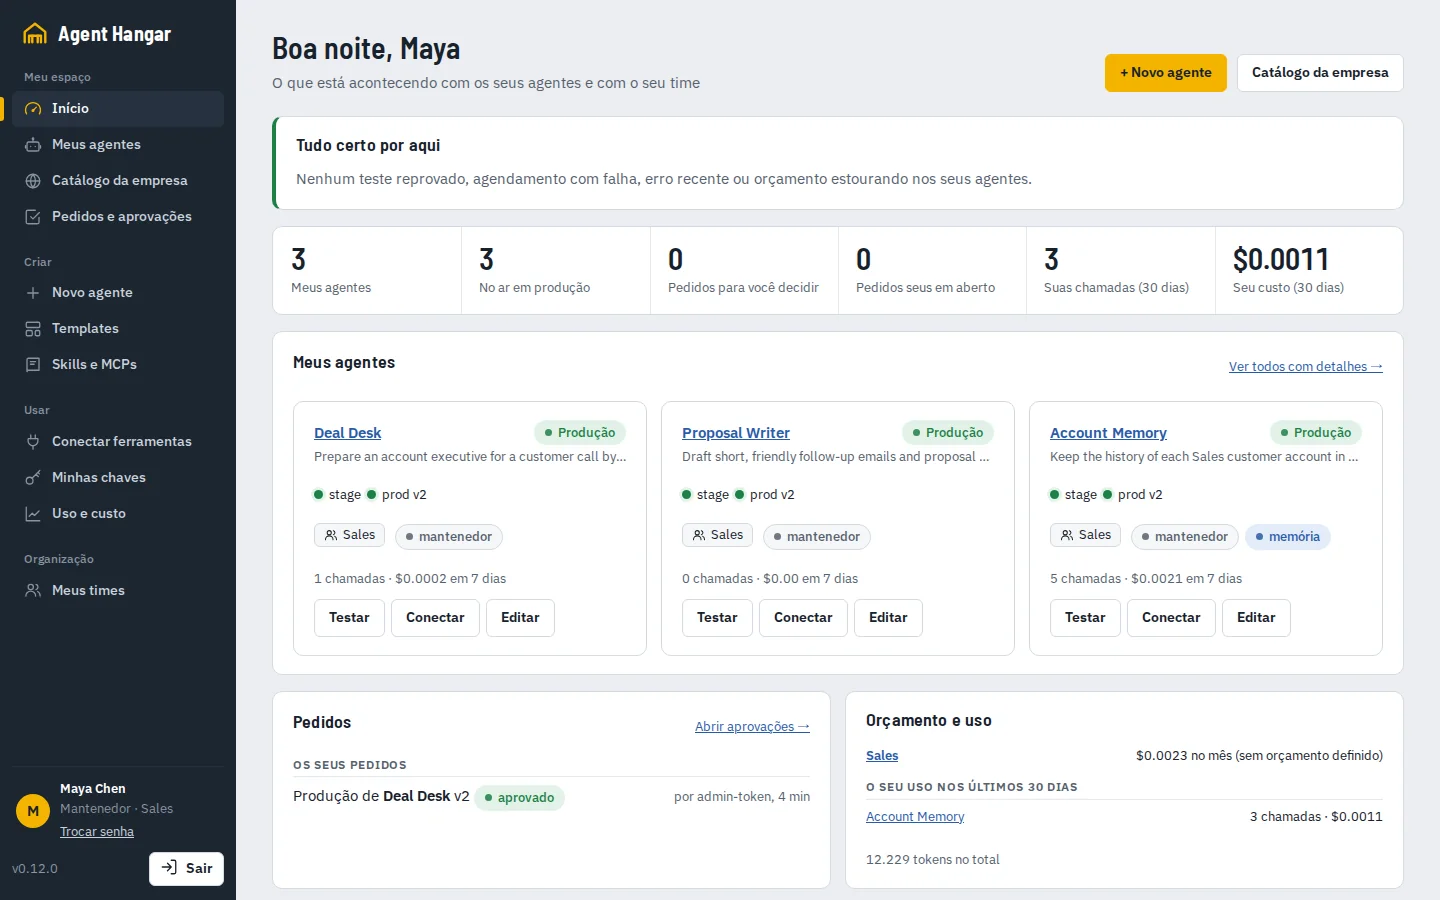
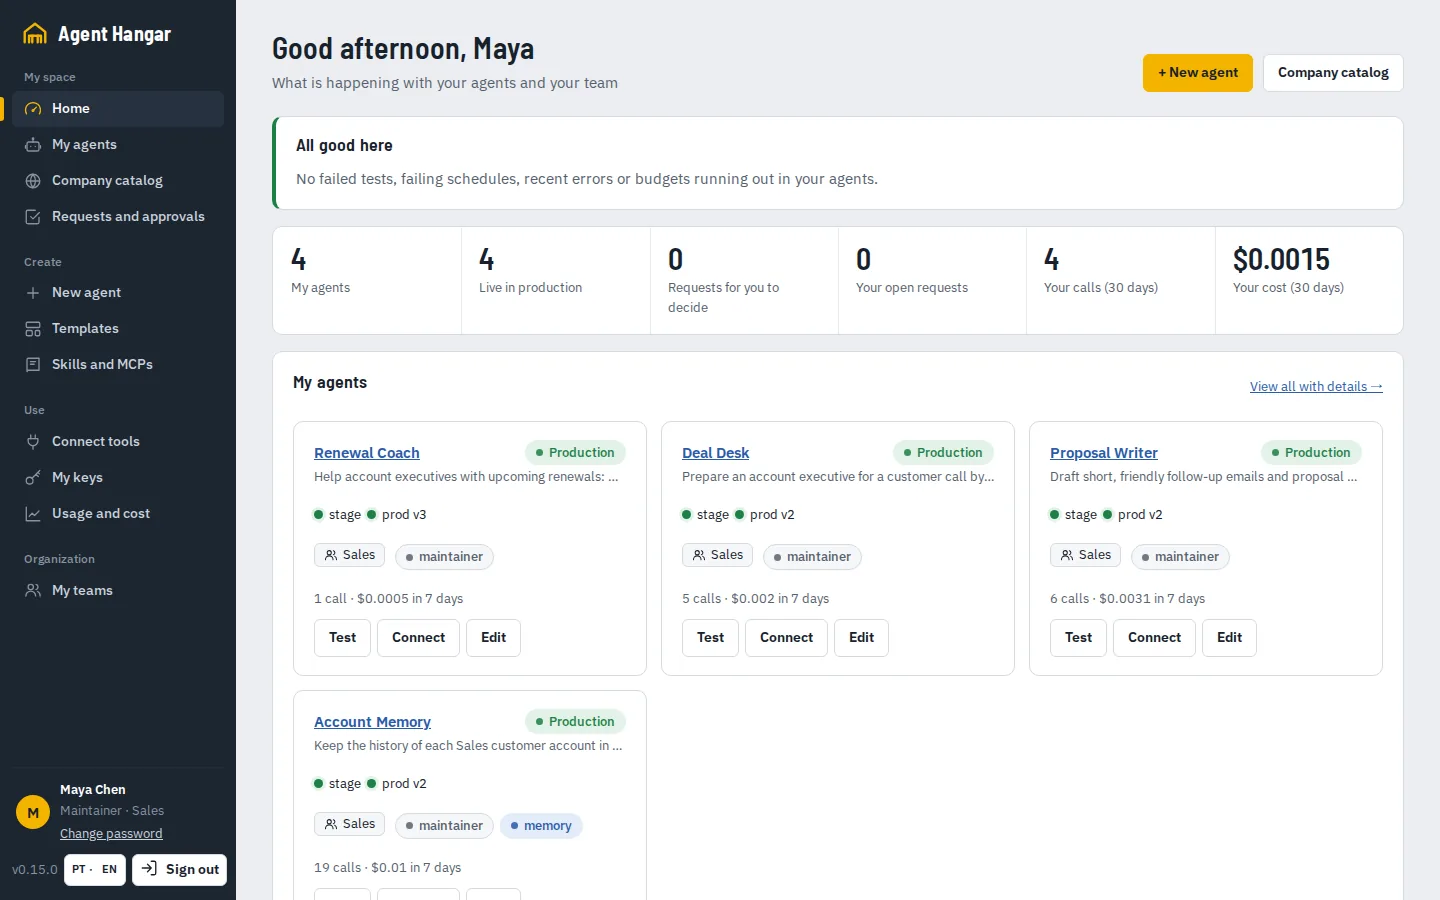
Demo for v0.15: portal in English, the Guide and "reuse before you build"
- Interactive demo (docs/demo): screens taken again on v0.15.0 with the portal
  in English; new steps for "reuse before you build" and the agent Guide (Deal
  Desk's guide written over MCP as a build step), replacing the removed
  Multi-agent tab; hotspots and texts updated.
- Composer: the plan's reasons and recommendation follow the request's language,
  like the gap questions already did.
- Portal (EN): translations for the schedule node, usage and connect columns,
  memory scope, test summaries and the connection notice.
- capture.py signs in with the demo account and forces the English portal;
  new "reuse" group. README status covers v0.14 and v0.15.

diff --git a/docs/demo/index.html b/docs/demo/index.html
@@ -101,60 +101,63 @@
   </aside>
 </main>
 <script>
-// Real screens from a local install (v0.12.0). The agents, tests, memory, answers and costs are real; the people and
-// customers are fictional. The portal's interface is in Portuguese; the data and this tour are in English.
+// Real screens from a local install (v0.15.0, portal in English). The agents, tests, memory, answers and costs are
+// real; the people and customers are fictional.
 const STEPS = [
   { cover: "intro" },
   { img: "01-claude", x: 74, y: 59, tip: "Claude ships it",
     title: "It starts in the AI tool you already use",
-    body: `<p>Maya, from Sales, asks Claude for three agents. Claude builds them through the Hangar's <b>MCP server</b>: register, design, add tests, ship and schedule.</p>
+    body: `<p>Maya, from Sales, asks Claude for agents. Claude builds them through the Hangar's <b>MCP server</b>: register, design, add tests, write the guide, ship and schedule.</p>
       <p>The same works from ChatGPT, Cursor, VS Code, Codex or OpenCode. Nothing is locked inside one vendor.</p>`,
     note: "This screen is a visual reconstruction of Claude, built from the recorded MCP calls. Every call in it really ran." },
+  { img: "17-reuse", x: 50, y: 33, tip: "Reuse first",
+    title: "Reuse before you build",
+    body: `<p>Before building anything, the Hangar searches the company catalog for agents, skills and tools that already do part of the job, using only what Maya is allowed to see.</p>
+      <p>The new agent calls them as <b>specialists</b> or starts from a copy. The existing agents are never changed, and Claude writes only what is new.</p>` },
   { img: "03-approval", x: 85, y: 40, tip: "Pending approval",
     title: "Production needs a second pair of eyes",
-    body: `<p>All three agents passed their tests in stage, but the Sales team requires approval before production. Whoever asked can't approve their own release (<b>four-eyes</b>).</p>
+    body: `<p>The agents passed their tests in stage, but the Sales team requires approval before production. Whoever asked can't approve their own release (<b>four-eyes</b>).</p>
       <p>An admin approved it; the release then went live.</p>`,
-    note: "Portuguese UI: “Aprovações” = Approvals, “pendente” = pending." },
-  { img: "02-home", x: 37, y: 30, tip: "3 in production",
+    note: "This screen was recorded in Portuguese (“Aprovações” = Approvals). The portal has a PT · EN switch." },
+  { img: "02-home", x: 34, y: 30, tip: "4 in production",
     title: "Everyone gets a home page",
     body: `<p>Maya sees her agents, what is live, requests waiting for her, her calls and her cost, plus anything that needs attention: a failed test, a failing schedule, a budget running out.</p>` },
-  { img: "14-multiagent", x: 50, y: 63, tip: "Two agents, one team",
-    title: "Agents combine into new agents",
-    body: `<p><b>Deal Desk</b> doesn't store facts or write emails itself. It is an orchestrator: it asks <b>Account Memory</b> for the facts and <b>Proposal Writer</b> for the email, over A2A.</p>
-      <p>Existing agents are reused as specialists, each keeping its own instructions, model and tests.</p>` },
-  { img: "06-tests", x: 24, y: 38, tip: "9/9 checks",
+  { img: "14-guide", x: 58, y: 72, tip: "Specialists over A2A",
+    title: "Every agent explains itself",
+    body: `<p>Each agent has a <b>Guide</b>: a flow drawn from its spec, a fact sheet with example requests taken from its passing tests, and a guide written for the people who will use it.</p>
+      <p><b>Deal Desk</b> doesn't store facts or write emails itself: it asks <b>Account Memory</b> and <b>Proposal Writer</b>, over A2A. Claude wrote this guide as a step of the build.</p>` },
+  { img: "06-tests", x: 30, y: 38, tip: "9/9 checks",
     title: "Nothing reaches production untested",
     body: `<p>Every change creates a new version that runs in stage first:</p>
       <ul><li>smoke checks of every protocol: OpenAI, A2A, ACP, MCP;</li><li>the agent's own test cases, graded by an LLM judge.</li></ul>
       <p>Here Account Memory proves it records facts and refuses to invent a customer it doesn't know.</p>` },
-  { img: "08-memory", x: 89, y: 66, tip: "Shared memory",
+  { img: "08-memory", x: 27, y: 47.5, tip: "Team memory",
     title: "The team shares one memory",
-    body: `<p>Maya told Account Memory about three customers. Each fact is stored in the <b>Sales team's</b> memory, with the date it became true, so every agent and teammate sees the same history.</p>
+    body: `<p>Maya told Account Memory about her customers. Each fact is stored in the <b>Sales team's</b> memory, with the date it became true, so every agent and teammate sees the same history.</p>
       <p>Stage reads production memory but writes apart, so tests never pollute it.</p>` },
-  { img: "07-playground", x: 87, y: 58, tip: "Real answer",
+  { img: "07-playground", x: 45, y: 58, tip: "Real answer",
     title: "Ask it anything",
     body: `<p>“Prepare me for my call with Northwind Logistics tomorrow.”</p>
       <p>Deal Desk pulled the facts from memory and wrote a call brief: the situation, the open risks (SSO is the blocker, Priya prefers Tuesdays) and the next step. A follow-up email comes after it.</p>` },
-  { img: "11-schedule", x: 55, y: 42, tip: "Ran on its own",
+  { img: "11-schedule", x: 26, y: 24, tip: "Ran on its own",
     title: "Agents work on a schedule",
     body: `<p>Every weekday at 8:00, Deal Desk sends the <b>morning pipeline brief</b>, with customers ranked by urgency and the next step for each.</p>
       <p>It flags what is missing instead of making it up. Results can also go to Slack or Teams through a webhook.</p>` },
-  { img: "15-connect-tools", x: 58, y: 43, tip: "Pick a tool",
+  { img: "15-connect-tools", x: 58, y: 47, tip: "Pick a tool",
     title: "Use it from any platform",
     body: `<p>The same agent plugs into Claude Code, Claude Desktop, Codex, OpenCode, Cursor, VS Code, Cline, Continue, LibreChat, Open WebUI, SDKs or any MCP client.</p>
-      <p>It works as a <b>tool (MCP)</b> or as a <b>model</b> in the chat picker.</p>`,
-    note: "“Como ferramenta” = as a tool, “Como modelo” = as a model." },
+      <p>It works as a <b>tool (MCP)</b> or as a <b>model</b> in the chat picker.</p>` },
   { img: "16-connect-cursor", x: 34, y: 50, tip: "Ready to paste",
     title: "One click, ready-made config",
     body: `<p>Connecting Cursor gives a config to paste, with a key just for that tool and that agent, issued in Maya's name.</p>
       <p>Revoke one tool without touching the others. Usage is tracked per tool, and keys die automatically if she loses access.</p>`,
     note: "The key was masked in this screenshot and revoked right after." },
-  { img: "10-catalog", x: 36, y: 15, tip: "Company catalog",
+  { img: "10-catalog", x: 30, y: 15.5, tip: "Company catalog",
     title: "Everyone can find every agent",
     body: `<p>The company catalog lists the agents of every team: what they do, who owns them, whether they passed their tests.</p>
-      <p>People request access in one click, and a maintainer of the owning team approves.</p>`,
+      <p>People open an agent's Guide to see what it does, then request access in one click; a maintainer of the owning team approves.</p>`,
     note: "Other teams' agents in this install have Portuguese names." },
-  { img: "12-usage", x: 78, y: 30, tip: "Per channel & protocol",
+  { img: "12-usage", x: 59, y: 31.5, tip: "Per channel & protocol",
     title: "Every call has a cost and a trail",
     body: `<p>For each call: agent, environment, channel, protocol, tokens, cost and latency. The <b>A2A</b> rows are Deal Desk calling its two specialists.</p>
       <p>Teams can have monthly budgets, and everything lands in the audit log.</p>` },
@@ -163,8 +166,8 @@ const STEPS = [
 
 const COVERS = {
   intro: { count: "Interactive demo · 2 minutes", title: "One home for every AI agent your company builds",
-    side: `<p>Follow Maya, an account executive, from a request in Claude to three agents working in production, used from any platform.</p>
-      <p>These are real screens from a local install of Agent Hangar v0.12.0. The agents, tests, memory, answers and costs are real; the people and customers are fictional.</p>`,
+    side: `<p>Follow Maya, an account executive, from a request in Claude to agents working in production, used from any platform.</p>
+      <p>These are real screens from a local install of Agent Hangar v0.15.0. The agents, tests, memory, answers and costs are real; the people and customers are fictional.</p>`,
     html: `<h2>One home for every AI agent<br>your company builds.</h2>
       <p>Build agents in Claude, ChatGPT, Cursor or VS Code. Agent Hangar tests them, runs each in its own container and makes them usable from any platform, over OpenAI-compatible, MCP, A2A and ACP.</p>
       <div class="cta"><a class="primary" href="#" data-go="1">Start the tour →</a><a href="https://github.com/valteresj2/agent-hangar">View on GitHub</a></div>` },

diff --git a/central/app/static/i18n.js b/central/app/static/i18n.js
@@ -198,7 +198,8 @@
       'remember each customer\'s history\nwrite the follow-up e-mail\napprove discounts under the sales policy',
     '); opcional': '); optional', 'ex.: Triagem de chamados': 'e.g. Ticket triage', 'Buscar na memória (ex.: plano da ACME)': 'Search the memory (e.g. ACME plan)', '(obrigatório). O valor da chave aparece uma única vez.': '(required). The key value is shown only once.',
     // ---- guia do agente
-    'Guia': 'Guide', 'Ficha': 'Fact sheet', 'Entrega': 'Delivers', 'Dono': 'Owner',
+    'Canal': 'Channel', 'Protocolo': 'Protocol', 'Modo': 'Mode', 'Arquivo:': 'File:', 'Escopo:': 'Scope:', '· grupo': '· group',
+    'Guia': 'Guide', 'Agendamento': 'Schedule', 'Ficha': 'Fact sheet', 'Entrega': 'Delivers', 'Dono': 'Owner',
     'Ferramentas': 'Tools', 'Pedidos de exemplo': 'Example requests', 'Onde chamar': 'Where to call',
     'Casos que passaram nos testes desta versão.': 'Cases that passed the tests of this version.',
     'Para ligar numa ferramenta (Claude, ChatGPT, VS Code…), use a aba': 'To plug it into a tool (Claude, ChatGPT, VS Code…), use the tab',
@@ -557,10 +558,12 @@
     [/(^|[^\d.,])1 calls\b/, '$11 call'], [/^Mantenedor · /, 'Maintainer · '], [/^Membro · /, 'Member · '],
     [/^Este texto foi escrito para a v(\d+); a versão descrita agora é a v(\d+)\. Confira se ainda vale\.$/,
       'This text was written for v$1; the version described is now v$2. Check that it still applies.'],
+    [/(\d+)\/(\d+) checks aprovados/, '$1/$2 checks passed'], [/\((\d+) ativa\(s\)\)/, '($1 active)'],
+    [/ — Como ferramenta \(MCP\)$/, ' — As a tool (MCP)'], [/ — Como modelo$/, ' — As a model'],
     [/^Já existe um guia escrito para a v(\d+); ele aparece aqui quando essa versão for publicada\.$/,
       'A guide is already written for v$1; it shows here when that version is published.'],
     [/\(empresa\)$/, '(company)'], [/\(privado\)$/, '(private)'], [/\(aberto\)$/, '(open)']];
-  const PTISH = /[ãõçáéíóúâêôàÁÉÍÓÚÇ]|\b(de|do|da|para|com|sem|seu|sua|agente|agentes|chave|nenhum|em|por|que|erros|membros|dias|chamadas|bom|boa|mantenedor|membro)\b/i;
+  const PTISH = /[ãõçáéíóúâêôàÁÉÍÓÚÇ]|\b(de|do|da|para|com|sem|seu|sua|agente|agentes|chave|nenhum|em|por|que|erros|membros|dias|chamadas|bom|boa|mantenedor|membro|como|ativa|aprovados)\b/i;
   const tr = text => {
     const raw = text.trim();
     if (!raw || !/[A-Za-zÀ-ú]/.test(raw)) return text;

diff --git a/central/app/services/composer.py b/central/app/services/composer.py
@@ -188,6 +188,10 @@ def _split_capabilities(request: str) -> list[str]:
     return caps[:8] or ([request.strip()] if request.strip() else [])
 
 
+WHY_PT = ("objetivo parecido", "termos em comum", "cobre")
+WHY_EN = ("similar goal", "shared terms", "covers")
+
+
 def _lang_pt(text: str) -> bool:
     w = _fold(text).split()
     pt = sum(x in {"de", "que", "para", "com", "uma", "os", "do", "da", "nao", "cliente", "voce"} for x in w)
@@ -234,12 +238,13 @@ def plan(db: Session, acc: Access, request: str, capabilities: list[str] | None 
         modes.append("specialist")
         if "view_spec" in perms:
             modes.append("base")
-        why = [f"objetivo parecido: {a.objective[:140]}"]
+        lbl = WHY_PT if _lang_pt(request) else WHY_EN
+        why = [f"{lbl[0]}: {a.objective[:140]}"]
         terms = _shared_terms(" ".join(queries), c["doc"])
         if terms:
-            why.append("termos em comum: " + ", ".join(terms))
+            why.append(f"{lbl[1]}: " + ", ".join(terms))
         if covered:
-            why.append("cobre: " + "; ".join(covered[:3]))
+            why.append(f"{lbl[2]}: " + "; ".join(covered[:3]))
         agents.append({"slug": a.slug, "name": a.name, "team": a.team_id, "version": c["version"],
                        "score": round(s, 3), "match": lvl or "partial", "why": why, "covers": covered,
                        "modes": modes, "access": access, "spec_visible": "view_spec" in perms,
@@ -278,16 +283,26 @@ def plan(db: Session, acc: Access, request: str, capabilities: list[str] | None 
     use_as_is = [x for x in agents if "use_as_is" in x["modes"]]
     specialists = [x for x in agents if x["match"] == "strong" or x["covers"]][:3]
     if use_as_is:
-        rec = (f"'{use_as_is[0]['name']}' já faz isso: use-o como está (connect_agent ou request_agent_access) — ou monte "
-               f"um agente NOVO a partir dele (base ou especialista). Ele não será alterado.")
+        name = use_as_is[0]["name"]
+        rec = (f"'{name}' já faz isso: use-o como está (connect_agent ou request_agent_access) — ou monte um agente NOVO "
+               f"a partir dele (base ou especialista). Ele não será alterado." if pt else
+               f"'{name}' already does this: use it as is (connect_agent or request_agent_access), or build a NEW agent "
+               f"from it (base or specialist). It will not be changed.")
     elif specialists:
-        rec = ("Monte um agente NOVO que chama " + ", ".join(
-            f"'{x['name']}'" + ("" if x["access"] == "ok" else " (pedir acesso antes)") for x in specialists)
-               + " como especialista(s); escreva só o que é novo. Os agentes existentes não são alterados.")
+        names = ", ".join(f"'{x['name']}'" + ("" if x["access"] == "ok" else
+                                              (" (pedir acesso antes)" if pt else " (request access first)"))
+                          for x in specialists)
+        rec = (f"Monte um agente NOVO que chama {names} como especialista(s); escreva só o que é novo. Os agentes "
+               f"existentes não são alterados." if pt else
+               f"Build a NEW agent that calls {names} as specialist(s); write only what is new. The existing agents "
+               f"are not changed.")
     elif skill_hits or mcp_hits:
-        rec = "Nenhum agente parecido em produção: crie um agente novo reaproveitando as skills/MCPs sugeridos."
+        rec = ("Nenhum agente parecido em produção: crie um agente novo reaproveitando as skills/MCPs sugeridos." if pt
+               else "No similar agent in production: create a new agent reusing the suggested skills/MCPs.")
     else:
-        rec = "Nada no catálogo cobre o pedido: construa do zero (compose_agent sem peças) e registre as skills novas."
+        rec = ("Nada no catálogo cobre o pedido: construa do zero (compose_agent sem peças) e registre as skills novas."
+               if pt else "Nothing in the catalog covers the request: build from scratch (compose_agent without "
+                          "pieces) and register the new skills.")
 
     plan_id = "pl_" + secrets.token_urlsafe(9)
     shared.put(f"plan:{plan_id}", {"by": acc.p.name, "request": request[:2000], "candidates": [x["slug"] for x in agents],

diff --git a/scripts/demo/product-tour/capture.py b/scripts/demo/product-tour/capture.py
@@ -1,5 +1,6 @@
-"""Capturas da demo interativa (Product Hunt) como a Maya. Uso: python capture.py <grupo>
-grupos: approval (antes de aprovar), main (depois de publicado e com memória/uso), claude (conversa renderizada)."""
+"""Capturas da demo interativa (Product Hunt) como a Maya, com o portal em inglês. Uso: python capture.py <grupo>
+grupos: approval (antes de aprovar), main (depois de publicado e com memória/uso), extra (Guia e Conectar),
+reuse (reusar antes de construir), claude (conversa renderizada)."""
 import pathlib
 import sys
 
@@ -9,7 +10,7 @@ D = pathlib.Path("/demo")
 OUT = D / "shots"
 OUT.mkdir(exist_ok=True)
 BASE = "http://central:8080"
-SESSION = (D / "maya_session.txt").read_text().strip()
+PASSWORD = (D / "maya_password.txt").read_text().strip()  # conta local de demonstração (arquivo fora do git)
 W, H = 1440, 900
 
 
@@ -24,8 +25,9 @@ def run(group: str):
             pg.screenshot(path=str(OUT / "01-claude.png"), full_page=False)
             b.close()
             return
-        ctx.add_cookies([{"name": "hangar_session", "value": SESSION, "url": BASE},
-                         {"name": "hangar_csrf", "value": "demo-csrf-token", "url": BASE}])
+        r = ctx.request.post(f"{BASE}/api/auth/password", data={"username": "maya.chen", "password": PASSWORD})
+        assert r.ok, r.text()
+        ctx.add_init_script("localStorage.setItem('hangar_lang', 'en')")  # o portal tem PT e EN; a demo é em inglês
         pg = ctx.new_page()
 
         def go(hash_, name, wait="main h1", pause=1500, before=None):
@@ -68,7 +70,7 @@ def run(group: str):
             go("#/usage", "12-usage.png", pause=2500)
             go("#/agents/deal-desk/versions", "13-versions.png", wait=".tabs", pause=1500)
         elif group == "extra":
-            go("#/agents/deal-desk/topology", "14-multiagent.png", wait=".tabs", pause=2500)
+            go("#/agents/deal-desk/guide", "14-guide.png", wait=".guide-md", pause=1500)
             pg.goto(f"{BASE}/app/#/agents/deal-desk/connect")
             pg.wait_for_selector(".cn-go")
             pg.wait_for_timeout(1200)
@@ -92,6 +94,24 @@ def run(group: str):
             for k in conns:
                 r = pg.request.delete(f"{BASE}/api/keys/{k['id']}", headers={"X-CSRF-Token": csrf})
                 print("revogada", k["client_label"], r.status)
+        elif group == "reuse":
+            # reusar antes de construir: o hangar procura no catálogo agentes e skills parecidos com o pedido
+            pg.goto(f"{BASE}/app/#/agents/new")
+            pg.wait_for_selector("#pl-req")
+            pg.fill("#pl-req", "A renewal assistant that remembers each customer's history, flags upcoming renewals and "
+                               "writes the renewal email")
+            pg.fill("#pl-caps", "remember each customer's history\nflag upcoming renewals\nwrite the renewal proposal email")
+            pg.click("#pl-go")
+            pg.wait_for_selector("#pl-out table, #pl-out .warn-card", timeout=60000)
+            pg.wait_for_timeout(800)
+            spec = pg.locator(".pl-spec[value='account-memory']")
+            if spec.count():
+                spec.first.check()
+            pg.wait_for_timeout(400)
+            pg.eval_on_selector("#pl-out", "o => o.scrollIntoView({block: 'start'})")
+            pg.evaluate("window.scrollBy(0, -260)")
+            pg.wait_for_timeout(400)
+            pg.screenshot(path=str(OUT / "17-reuse.png"))
         b.close()
     print("ok", sorted(x.name for x in OUT.iterdir()))
 

diff --git a/README.md b/README.md
@@ -416,7 +416,7 @@ hangar jobs run code-fixer "Add input validation to parse_date()" --follow
 
 ## Project status and roadmap
 
-v0.13 adds “reuse before you build”: new agents are composed from existing ones (semantic catalog search, read-only pieces, skills with their own tests). v0.12 added observability (Prometheus, JSON logs, OpenTelemetry), backup and upgrade (`hangar backup`/`upgrade`, pre-upgrade backups in the chart), vault secrets, cloud identity, signed images with SBOM, and Terraform for GKE, AKS and EKS. v0.11 added OAuth on the platform MCP (Claude.ai and ChatGPT on the web connect with just the URL) and high availability on Kubernetes (several central replicas). v0.10 added the guided installer (`hangar setup` / `hangar doctor`), tunnels (Cloudflare, ngrok, Tailscale) and Kubernetes (Helm chart, runtime driver, GKE/AKS/EKS presets). Earlier releases added code evaluations and code governance (v0.9), coding agents in VS Code (v0.8), the user portal (v0.7), long-term memory (v0.6), the MCP catalog with OAuth MCPs and
+v0.15 adds the agent **Guide** (a flow drawn from the spec, a fact sheet and a guide for users, written by the AI tool as a step of the build). v0.14 added the portal and console in English, ARM64 images and harness jobs fixed on Kubernetes. v0.13 added “reuse before you build”: new agents are composed from existing ones (semantic catalog search, read-only pieces, skills with their own tests). v0.12 added observability (Prometheus, JSON logs, OpenTelemetry), backup and upgrade (`hangar backup`/`upgrade`, pre-upgrade backups in the chart), vault secrets, cloud identity, signed images with SBOM, and Terraform for GKE, AKS and EKS. v0.11 added OAuth on the platform MCP (Claude.ai and ChatGPT on the web connect with just the URL) and high availability on Kubernetes (several central replicas). v0.10 added the guided installer (`hangar setup` / `hangar doctor`), tunnels (Cloudflare, ngrok, Tailscale) and Kubernetes (Helm chart, runtime driver, GKE/AKS/EKS presets). Earlier releases added code evaluations and code governance (v0.9), coding agents in VS Code (v0.8), the user portal (v0.7), long-term memory (v0.6), the MCP catalog with OAuth MCPs and
 Activepieces (v0.5), schedules and edit-after-ship (v0.4), and teams with SSO (v0.3). Next up: Slack/Teams adapters and egress allowlists for jobs. See
 [ROADMAP.md](ROADMAP.md), the [CHANGELOG](CHANGELOG.md) and the issues.
 

diff --git a/scripts/demo/product-tour/README.md b/scripts/demo/product-tour/README.md
@@ -5,7 +5,7 @@ https://valteresj2.github.io/agent-hangar/demo/).
 
 ## What was recorded
 
-The run happened on a local install of v0.12.0 on 2026-10-01. People and customers are fictional; the agents, tests,
+The run happened on a local install of v0.12.0 on 2026-10-01; the portal screens were taken again on v0.15.0 on 2026-10-04, in English, adding the Guide and "reuse before you build" steps (`capture.py main|extra|reuse`, signing in with `maya_password.txt`). People and customers are fictional; the agents, tests,
 memory, answers and costs are real.
 
 1. **Setup:** Maya Chen (a local account) maintains the *Sales* team, which requires approval for production. She
@@ -26,7 +26,7 @@ memory, answers and costs are real.
 
 ## Running it again
 
-Put `maya_token.txt` and `maya_session.txt` in this folder. They are secrets: git-ignored, never commit them.
+Put `maya_token.txt` and `maya_password.txt` (the demo account's password) in this folder. They are secrets: git-ignored, never commit them.
 
 ```bash
 docker run --rm --network hangar_agents -v "$PWD:/demo" agent-hangar/central:latest python /demo/run_calls.py
